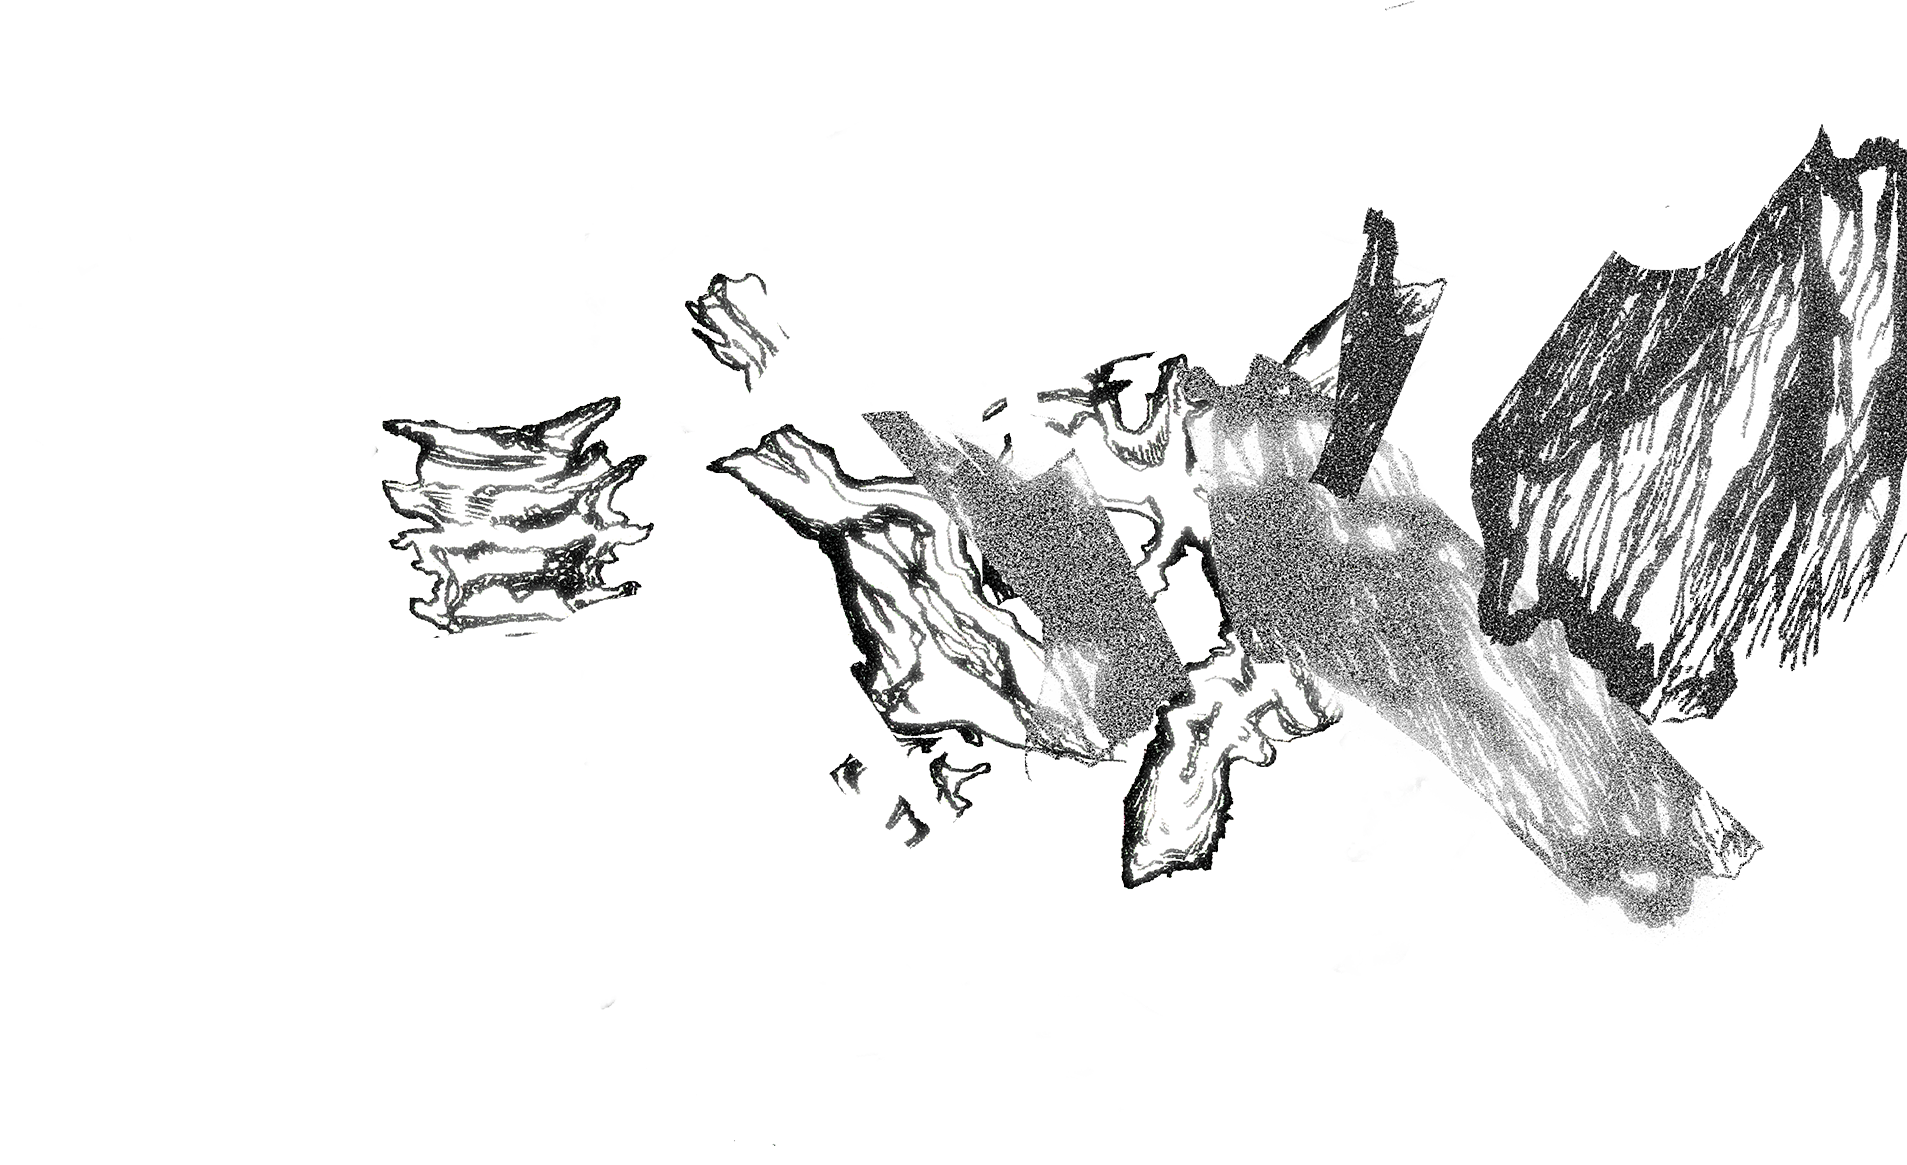
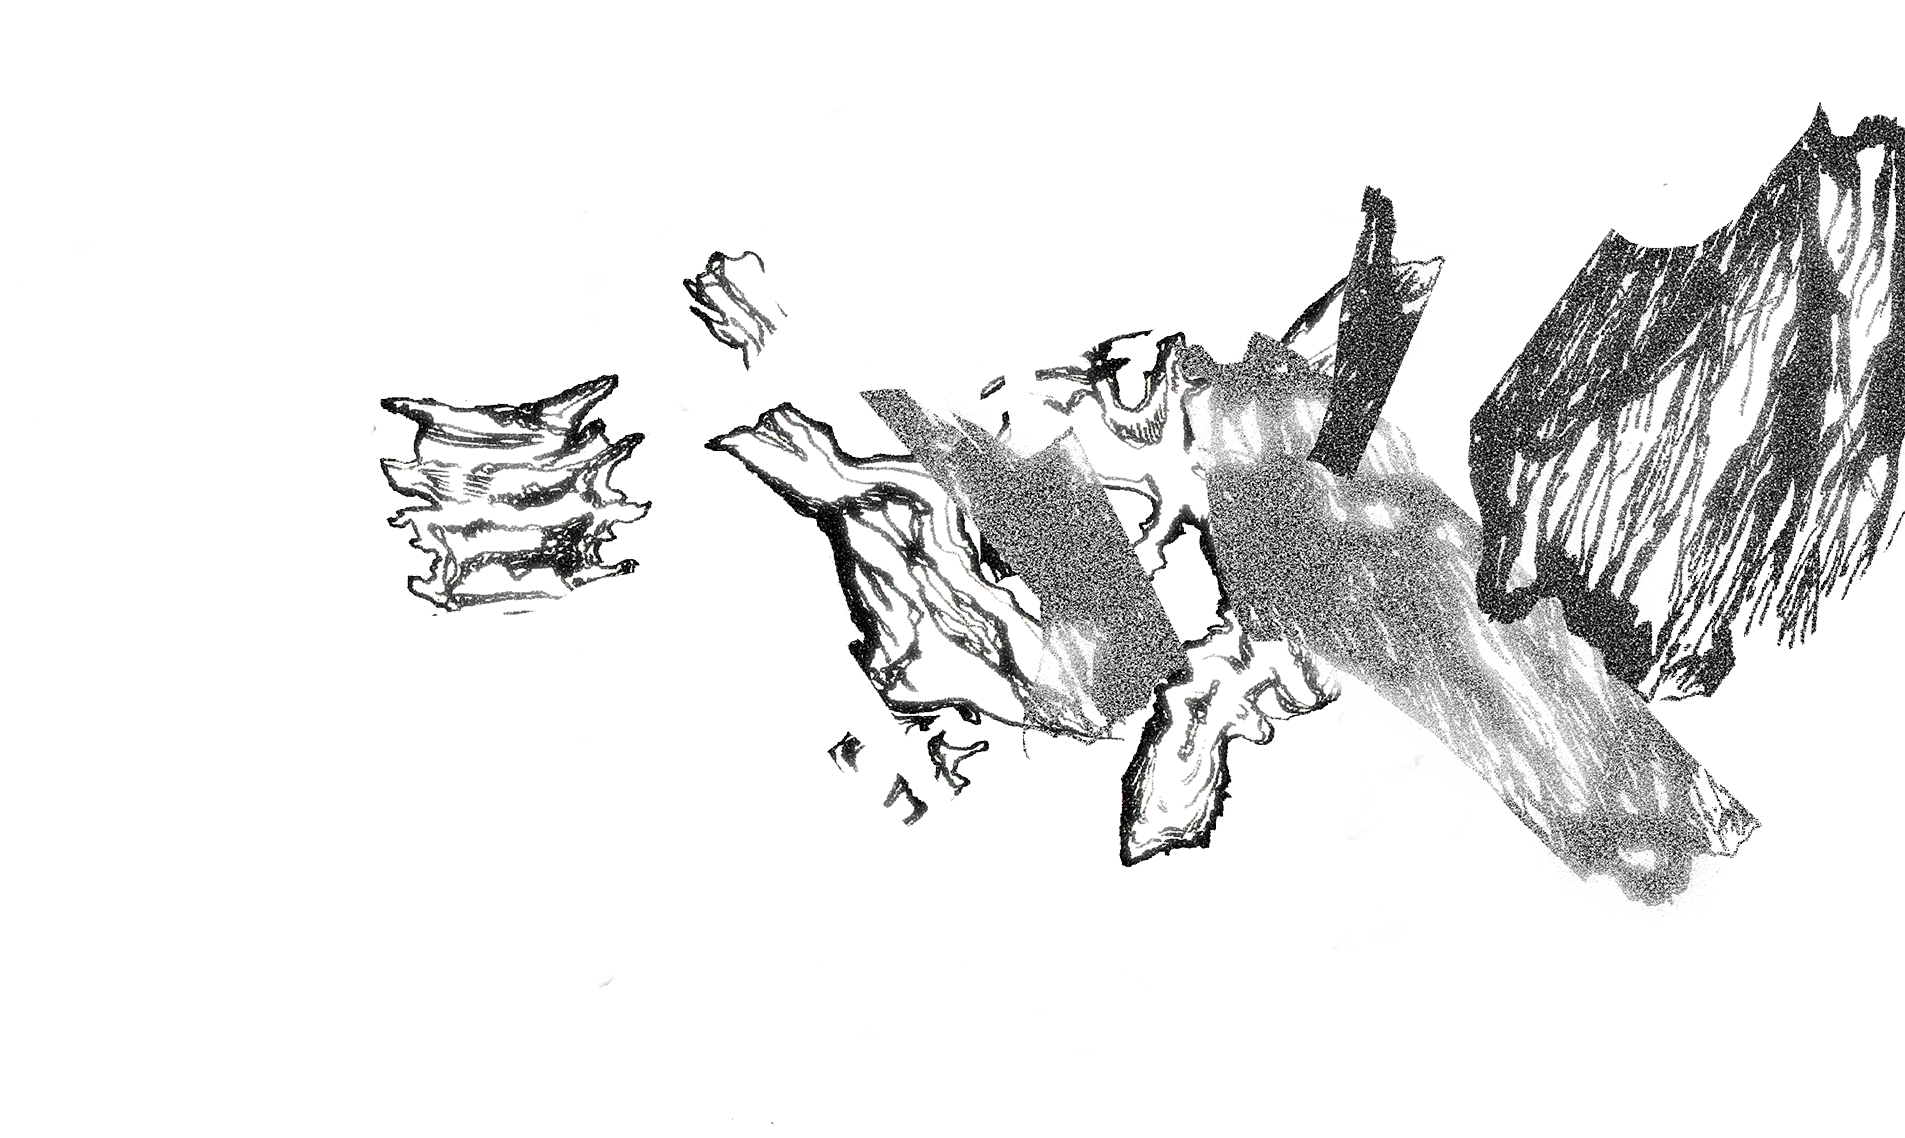
мелкие фиксы

Changed region(s): [[0.3717, 0.0923, 1.0, 0.7996], [0.1858, 0.3076, 0.3407, 0.5536], [0.3407, 0.2153, 0.4336, 0.3383]]

diff --git a/src/components/objects/Section3.vue b/src/components/objects/Section3.vue
@@ -67,11 +67,21 @@ export default {
     makeTransformsForStage(progress) {
       const speed = 0.35;
 
-      this.transforms.img1 = `translateY(${-progress * speed * 2500/ 19.2}vw)`;
-      this.transforms.img2 = `translateY(${-progress * speed * 3000/ 19.2}vw)`;
-      this.transforms.img3 = `translateY(${-progress * speed * 1300/ 19.2}vw)`;
-      this.transforms.img4 = `translateY(${-progress * speed * 1100/ 19.2}vw)`;
-      this.transforms.img5 = `translateY(${-progress * speed * 400/ 19.2}vw)`;
+      this.transforms.img1 = `translateY(${
+        (-progress * speed * 2500) / 19.2
+      }vw)`;
+      this.transforms.img2 = `translateY(${
+        (-progress * speed * 3000) / 19.2
+      }vw)`;
+      this.transforms.img3 = `translateY(${
+        (-progress * speed * 1300) / 19.2
+      }vw)`;
+      this.transforms.img4 = `translateY(${
+        (-progress * speed * 1100) / 19.2
+      }vw)`;
+      this.transforms.img5 = `translateY(${
+        (-progress * speed * 400) / 19.2
+      }vw)`;
     },
 
     onScroll() {
@@ -101,24 +111,24 @@ export default {
 }
 
 .section3 {
-  height: calc(600vw/ 19.2);
+  height: calc(600vw / 19.2);
 
   &__img1 {
     transform-origin: center;
     will-change: transform;
     position: absolute;
-    width: calc(888vw/ 19.2) ;
-    right: calc(901vw/ 19.2);
-    top: calc(492vw/ 19.2);
+    width: calc(888vw / 19.2);
+    right: calc(901vw / 19.2);
+    top: calc(492vw / 19.2);
     z-index: 1;
   }
 
   &__img2 {
     transform-origin: center;
     will-change: transform;
-    width: calc(331vw/ 19.2);
-    right: calc(861vw/ 19.2);
-    top: calc(951vw/ 19.2);
+    width: calc(331vw / 19.2);
+    right: calc(861vw / 19.2);
+    top: calc(951vw / 19.2);
     position: absolute;
     z-index: 2;
   }
@@ -126,29 +136,29 @@ export default {
   &__img3 {
     transform-origin: center;
     will-change: transform;
-    width: calc(394vw/ 19.2);
-    top: calc(391vw/ 19.2);
+    width: calc(394vw / 19.2);
+    top: calc(391vw / 19.2);
     position: absolute;
     z-index: 50;
-    right: calc(154vw/ 19.2);
+    right: calc(154vw / 19.2);
   }
 
   &__img4 {
     transform-origin: center;
     will-change: transform;
-    width: calc(1773vw/ 19.2);
+    width: calc(1773vw / 19.2);
     position: absolute;
-    top: calc(173vw/ 19.2);
-    right: calc(-8vw/ 19.2);
+    top: calc(193vw / 19.2);
+    right: calc(-8vw / 19.2);
     z-index: 15;
   }
 
   &__img5 {
     transform-origin: center;
     will-change: transform;
-    top: calc(343vw/ 19.2);
-    width: calc(959vw/ 19.2);
-    right: calc(318vw/ 19.2);
+    top: calc(343vw / 19.2);
+    width: calc(959vw / 19.2);
+    right: calc(318vw / 19.2);
     position: absolute;
     z-index: 2;
   }
@@ -157,8 +167,8 @@ export default {
     transform-origin: center;
     will-change: transform;
     position: absolute;
-    left: calc(100vw/ 19.2);
-    top: calc(93vw/ 19.2);
+    left: calc(100vw / 19.2);
+    top: calc(93vw / 19.2);
   }
 }
 </style>

diff --git a/src/components/objects/Section5.vue b/src/components/objects/Section5.vue
@@ -124,7 +124,7 @@ export default {
           (rect.y - document.getElementById("app").getBoundingClientRect().y),
         progress = scrollY / (rect.height - window.innerHeight);
 
-      this.show = -2 < progress;
+      this.show = -2 < progress || true;
 
       if (!this.show) return;
 
@@ -161,14 +161,14 @@ $animation-speed: 10s;
 
 @keyframes wind-1 {
   20% {
-    transform: scale(1.015) rotate(3deg);
+    transform: rotate(3deg);
   }
   40% {
-    transform: scale(1.013) rotate(4deg);
+    transform: rotate(4deg);
     animation-timing-function: ease-in-out;
   }
   66% {
-    transform: scale(0.995) rotate(-1deg);
+    transform: rotate(-1deg);
     animation-timing-function: ease-out;
   }
 }
@@ -184,11 +184,16 @@ $animation-speed: 10s;
 }
 
 @keyframes wind-3 {
-  21% {
-    transform: scale(1.01) rotate(0.5deg);
+  20% {
+    transform: translate(1px, -2px) rotate(1deg);
   }
   40% {
-    transform: rotate(-0.05deg);
+    transform: translate(1px, -2px) rotate(1.1deg);
+    animation-timing-function: ease-in-out;
+  }
+  66% {
+    transform: rotate(-0.3deg);
+    animation-timing-function: ease-out;
   }
 }
 
@@ -310,16 +315,14 @@ $animation-speed: 10s;
   }
 
   &__img2 {
-    transform-origin: center;
-    will-change: transform;
     width: 18.3vw;
-    left: 1.5vw;
-    top: -0.4vw;
+    left: 3.5vw;
+    top: -1.2vw;
     position: absolute;
     z-index: 2;
     transform-origin: 36% 97%;
-    // animation: wind-3 #{$animation-speed} ease-in-out 0s infinite;
-    animation-delay: -0.24s;
+    animation-delay: -0.1s;
+    animation: wind-3 #{$animation-speed} ease-in-out 0s infinite;
   }
 
   &__img3 {

diff --git a/src/components/objects/Section1.vue b/src/components/objects/Section1.vue
@@ -110,6 +110,8 @@ export default {
 
       if (!this.show) return;
 
+      console.log(progress);
+
       if (progress < 0) {
         this.makeTransformsForStage(0);
       }
@@ -124,13 +126,15 @@ export default {
         if (this.counter++ % 4 === 0) this.makeTransformsForStage(progress);
 
         this.wrapperStyle.position = "fixed";
+        this.wrapperStyle.transform = null;
       } else if (1 < progress && progress <= 2) {
         this.wrapperStyle.position = "fixed";
         this.wrapperStyle.top = 0;
         this.wrapperStyle.transform =
           "translateY(" +
           ((-(1 - Math.cos((progress - 1) * Math.PI)) / 2) *
-            (rect.height - window.innerHeight)) / 19.2 +
+            (rect.height - window.innerHeight)) /
+            19.2 +
           "vw)";
         this.wrapperStyle.bottom = "unset";
       } else {

diff --git a/src/App.vue b/src/App.vue
@@ -1,12 +1,12 @@
 <template>
-  <OpeningScreen @opened="show = true" />
+  <OpeningScreen @opened="(show = true), scrollToTop()" />
   <div style="height: 10vw"></div>
   <Section7 :showAnimations="show" />
   <Section3 />
   <Section4 />
   <Section6 />
   <Section1 />
-  <div style="height: 29vw"></div>
+  <div style="height: 35vw"></div>
   <Section2 />
   <div style="height: 62.5vw"></div>
   <Section5 />
@@ -25,7 +25,11 @@ import { onMounted, ref } from "vue";
 
 const show = ref(false);
 
-onMounted(() => window.scroll({ left: 0 }));
+function scrollToTop() {
+  window.scroll({ left: 0, top: 0 });
+}
+
+onMounted(scrollToTop);
 </script>
 
 <style lang="scss">

diff --git a/src/components/objects/Section2.vue b/src/components/objects/Section2.vue
@@ -88,7 +88,7 @@ export default {
           (rect.y - document.getElementById("app").getBoundingClientRect().y),
         progress = scrollY / (rect.height - window.innerHeight);
 
-      this.show = -1 < progress && progress <= 2.3;
+      this.show = (-1 < progress && progress <= 2.3) || true;
 
       if (!this.show) return;
 
@@ -119,7 +119,7 @@ export default {
       }
 
       if (-0.5 <= progress && progress < 0) {
-        this.wrapperStyle.top = `calc(${-progress * 2}*75vw)`;
+        this.wrapperStyle.top = `calc(${-progress * 1}*75vw)`;
         this.wrapperStyle.transform = `scale(${
           0.7 + 0.3 * (progress + 0.5) * 2
         })`;

diff --git a/src/components/objects/Section4.vue b/src/components/objects/Section4.vue
@@ -89,7 +89,7 @@ export default {
 
       if (!this.show) return;
 
-      if (-0.32 <= progress && progress < 0.6) this.playSound();
+      if (-0.32 <= progress && progress < 0.5) this.playSound();
       else this.stopSound();
 
       if (progress < 0) {

diff --git a/src/components/objects/Section7.vue b/src/components/objects/Section7.vue
@@ -120,8 +120,6 @@ export default {
 
       if (!this.show) return;
 
-      console.log(progress);
-
       this.progress = progress;
 
       this.wrapperStyle.transform = `translateY(${progress * 100}vw)`;

diff --git a/src/assets/main.css b/src/assets/main.css
@@ -8,7 +8,7 @@
 #app {
   font-weight: normal;
   width: 100%;
-  overflow-x: hidden;
+  overflow: hidden;
 }
 
 .text {
